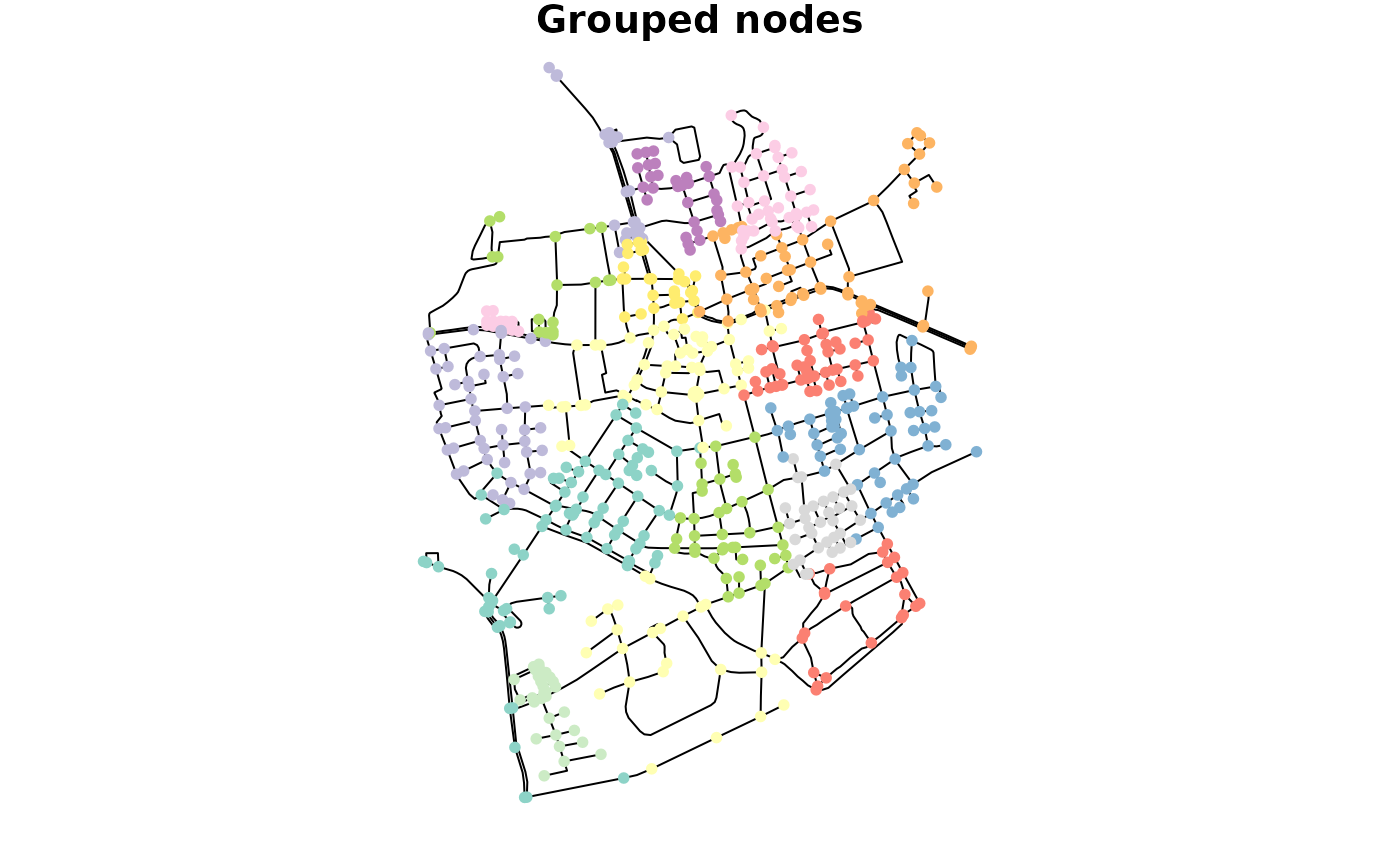
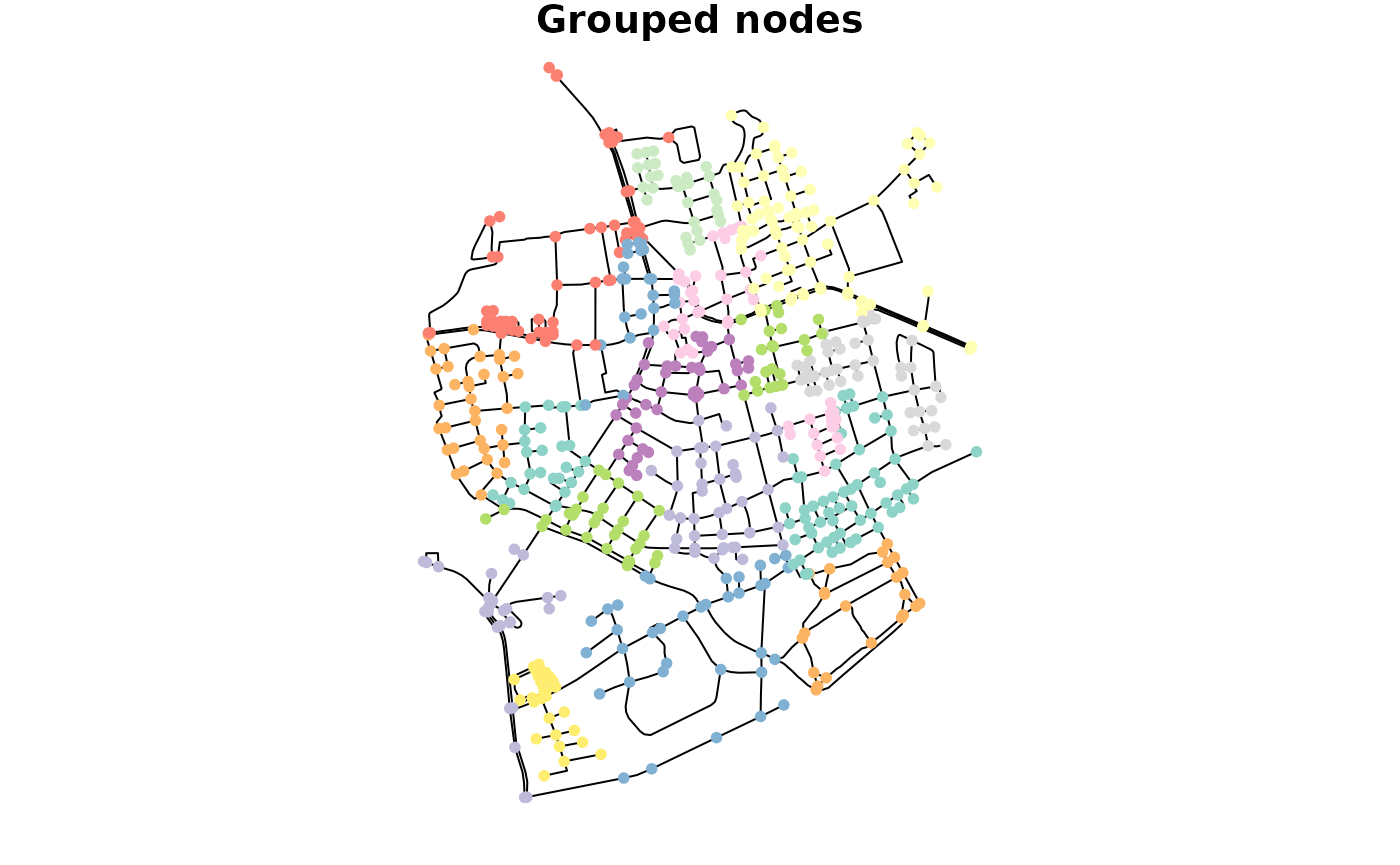
Built site for sfnetworks: 0.5.5.900@c687307

diff --git a/articles/sfn02_preprocess_clean.html b/articles/sfn02_preprocess_clean.html
@@ -99,7 +99,7 @@
     <div class="page-header toc-ignore">
       <h1 data-toc-skip>2. Network pre-processing and cleaning</h1>
             
-            <h4 data-toc-skip class="date">2022-08-18</h4>
+            <h4 data-toc-skip class="date">2022-08-19</h4>
       
       <small class="dont-index">Source: <a href="https://github.com/luukvdmeer/sfnetworks/blob/HEAD/vignettes/sfn02_preprocess_clean.Rmd" class="external-link"><code>vignettes/sfn02_preprocess_clean.Rmd</code></a></small>
       <div class="hidden name"><code>sfn02_preprocess_clean.Rmd</code></div>
@@ -376,12 +376,12 @@ PRE.fansi SPAN {padding-top: .25em; padding-bottom: .25em};
 <span><span class="co">#&gt; # Bounding box:  xmin: 0 ymin: -1 xmax: 7 ymax: 3</span></span>
 <span><span class="co">#&gt;    from    to              x  flow type    foo bar  </span></span>
 <span><span class="co">#&gt;   &lt;int&gt; &lt;int&gt;   &lt;LINESTRING&gt; &lt;int&gt; &lt;chr&gt; &lt;int&gt; &lt;chr&gt;</span></span>
-<span><span class="co">#&gt; 1    10     9 (6 1.2, 5.8 1)     3 path      7 z    </span></span>
-<span><span class="co">#&gt; 2    11    10 (6.2 1, 6 1.2)     4 path      1 o    </span></span>
-<span><span class="co">#&gt; 3     9    12 (5.8 1, 6 0.8)     4 path      9 g    </span></span>
-<span><span class="co">#&gt; 4    12    11 (6 0.8, 6.2 1)     4 path      2 u    </span></span>
-<span><span class="co">#&gt; 5    11    15   (6.2 1, 7 1)     4 path     13 t    </span></span>
-<span><span class="co">#&gt; 6    10    13   (6 1.2, 6 2)    10 path     14 x    </span></span>
+<span><span class="co">#&gt; 1    10     9 (6 1.2, 5.8 1)     7 path      9 l    </span></span>
+<span><span class="co">#&gt; 2    11    10 (6.2 1, 6 1.2)     1 path      5 r    </span></span>
+<span><span class="co">#&gt; 3     9    12 (5.8 1, 6 0.8)     8 path     15 m    </span></span>
+<span><span class="co">#&gt; 4    12    11 (6 0.8, 6.2 1)     3 path     11 h    </span></span>
+<span><span class="co">#&gt; 5    11    15   (6.2 1, 7 1)    10 path      3 b    </span></span>
+<span><span class="co">#&gt; 6    10    13   (6 1.2, 6 2)     8 path      7 u    </span></span>
 <span><span class="co">#&gt; # … with 9 more rows</span></span>
 <span><span class="co">#&gt; #</span></span>
 <span><span class="co">#&gt; # Node Data:     15 × 1</span></span>
@@ -409,8 +409,8 @@ PRE.fansi SPAN {padding-top: .25em; padding-bottom: .25em};
 <span><span class="co">#&gt; # A tibble: 2 × 7</span></span>
 <span><span class="co">#&gt;    from    to               x  flow type    foo bar  </span></span>
 <span><span class="co">#&gt;   &lt;int&gt; &lt;int&gt;    &lt;LINESTRING&gt; &lt;int&gt; &lt;chr&gt; &lt;int&gt; &lt;chr&gt;</span></span>
-<span><span class="co">#&gt; 1     6     7      (4 3, 4 2)    10 path     10 s    </span></span>
-<span><span class="co">#&gt; 2     6     7 (4 3, 5 2, 4 2)     8 road      8 n</span></span></code></pre>
+<span><span class="co">#&gt; 1     6     7      (4 3, 4 2)     2 path     10 w    </span></span>
+<span><span class="co">#&gt; 2     6     7 (4 3, 5 2, 4 2)     3 road      6 a</span></span></code></pre>
 <div class="sourceCode" id="cb10"><pre class="downlit sourceCode r">
 <code class="sourceCode R"><span><span class="co"># Define how we want to combine the attributes.</span></span>
 <span><span class="co"># For the flows:</span></span>
@@ -441,7 +441,7 @@ PRE.fansi SPAN {padding-top: .25em; padding-bottom: .25em};
 <span><span class="co">#&gt; # A tibble: 1 × 6</span></span>
 <span><span class="co">#&gt;    from    to            x  flow type    .tidygraph_edge_index</span></span>
 <span><span class="co">#&gt;   &lt;int&gt; &lt;int&gt; &lt;LINESTRING&gt; &lt;dbl&gt; &lt;chr&gt;   &lt;list&gt;               </span></span>
-<span><span class="co">#&gt; 1     6     7   (4 3, 4 2)    18 unknown &lt;int [2]&gt;</span></span></code></pre>
+<span><span class="co">#&gt; 1     6     7   (4 3, 4 2)     5 unknown &lt;int [2]&gt;</span></span></code></pre>
 <div class="sourceCode" id="cb11"><pre class="downlit sourceCode r">
 <code class="sourceCode R"><span><span class="fu"><a href="https://rdrr.io/r/graphics/plot.default.html" class="external-link">plot</a></span><span class="op">(</span><span class="fu"><a href="https://r-spatial.github.io/sf/reference/st_geometry.html" class="external-link">st_geometry</a></span><span class="op">(</span><span class="va">net</span>, <span class="st">"edges"</span><span class="op">)</span>, col <span class="op">=</span> <span class="fu">edge_colors</span><span class="op">(</span><span class="va">net</span><span class="op">)</span>, lwd <span class="op">=</span> <span class="fl">4</span><span class="op">)</span></span>
 <span><span class="fu"><a href="https://rdrr.io/r/graphics/plot.default.html" class="external-link">plot</a></span><span class="op">(</span><span class="fu"><a href="https://r-spatial.github.io/sf/reference/st_geometry.html" class="external-link">st_geometry</a></span><span class="op">(</span><span class="va">net</span>, <span class="st">"nodes"</span><span class="op">)</span>, pch <span class="op">=</span> <span class="fl">20</span>, cex <span class="op">=</span> <span class="fl">1.5</span>, add <span class="op">=</span> <span class="cn">TRUE</span><span class="op">)</span></span>
@@ -518,10 +518,10 @@ PRE.fansi SPAN {padding-top: .25em; padding-bottom: .25em};
 <span><span class="co">#&gt; # A tibble: 4 × 6</span></span>
 <span><span class="co">#&gt;    from    to               x  flow type    .tidygraph_edge_index</span></span>
 <span><span class="co">#&gt;   &lt;int&gt; &lt;int&gt;    &lt;LINESTRING&gt; &lt;dbl&gt; &lt;chr&gt;                   &lt;int&gt;</span></span>
-<span><span class="co">#&gt; 1     1     2 (0 1, 1 1, 2 1)     3 road                        1</span></span>
-<span><span class="co">#&gt; 2     2     3      (2 1, 3 1)     1 road                        2</span></span>
-<span><span class="co">#&gt; 3     8     9      (4 3, 4 2)    18 unknown                     5</span></span>
-<span><span class="co">#&gt; 4     9     4      (4 2, 4 1)    10 road                        6</span></span></code></pre>
+<span><span class="co">#&gt; 1     1     2 (0 1, 1 1, 2 1)     7 road                        1</span></span>
+<span><span class="co">#&gt; 2     2     3      (2 1, 3 1)     8 road                        2</span></span>
+<span><span class="co">#&gt; 3     8     9      (4 3, 4 2)     5 unknown                     5</span></span>
+<span><span class="co">#&gt; 4     9     4      (4 2, 4 1)     8 road                        6</span></span></code></pre>
 <div class="sourceCode" id="cb15"><pre class="downlit sourceCode r">
 <code class="sourceCode R"><span></span>
 <span><span class="co"># Define how we want to combine the attributes.</span></span>
@@ -551,8 +551,8 @@ PRE.fansi SPAN {padding-top: .25em; padding-bottom: .25em};
 <span><span class="co">#&gt; # A tibble: 2 × 6</span></span>
 <span><span class="co">#&gt;    from    to  flow type    .tidygraph_edge_index                    x</span></span>
 <span><span class="co">#&gt;   &lt;int&gt; &lt;int&gt; &lt;dbl&gt; &lt;chr&gt;   &lt;list&gt;                        &lt;LINESTRING&gt;</span></span>
-<span><span class="co">#&gt; 1     1     2     4 road    &lt;int [2]&gt;             (0 1, 1 1, 2 1, 3 1)</span></span>
-<span><span class="co">#&gt; 2     7     3    28 unknown &lt;int [2]&gt;                  (4 3, 4 2, 4 1)</span></span></code></pre>
+<span><span class="co">#&gt; 1     1     2    15 road    &lt;int [2]&gt;             (0 1, 1 1, 2 1, 3 1)</span></span>
+<span><span class="co">#&gt; 2     7     3    13 unknown &lt;int [2]&gt;                  (4 3, 4 2, 4 1)</span></span></code></pre>
 <p>Secondly, it is possible to only remove those pseudo nodes for which attributes among their incident edges are equal. To do this, set <code>require_equal = TRUE</code>. Optionally, you can provide a list of attribute names instead, such that only those attributes are checked for equality, instead of all attributes. Again, remember that the geometry-list column, the tidygraph index column, as well as the <em>from</em> and <em>to</em> columns are not considered attributes in this case.</p>
 <p>In our example, our first pseudo node has incident edges of the same type (“road”), while the second pseudo node has incident edges of differing types (“road” and “unknown”). If we require the type attribute to be equal, the second pseudo node will not be removed.</p>
 <div class="sourceCode" id="cb16"><pre class="downlit sourceCode r">
@@ -570,7 +570,11 @@ PRE.fansi SPAN {padding-top: .25em; padding-bottom: .25em};
 <span><span class="fu"><a href="https://rdrr.io/r/graphics/plot.default.html" class="external-link">plot</a></span><span class="op">(</span><span class="fu"><a href="https://r-spatial.github.io/sf/reference/st_geometry.html" class="external-link">st_geometry</a></span><span class="op">(</span><span class="va">subdivision</span>, <span class="st">"nodes"</span><span class="op">)</span>, pch <span class="op">=</span> <span class="fl">20</span>, cex <span class="op">=</span> <span class="fl">1.5</span>, add <span class="op">=</span> <span class="cn">TRUE</span><span class="op">)</span></span>
 <span><span class="fu"><a href="https://rdrr.io/r/graphics/plot.default.html" class="external-link">plot</a></span><span class="op">(</span><span class="fu"><a href="https://r-spatial.github.io/sf/reference/st_geometry.html" class="external-link">st_geometry</a></span><span class="op">(</span><span class="va">other_smoothed</span>, <span class="st">"edges"</span><span class="op">)</span>, col <span class="op">=</span> <span class="fu">edge_colors</span><span class="op">(</span><span class="va">smoothed</span><span class="op">)</span>, lwd <span class="op">=</span> <span class="fl">4</span><span class="op">)</span></span>
 <span><span class="fu"><a href="https://rdrr.io/r/graphics/plot.default.html" class="external-link">plot</a></span><span class="op">(</span><span class="fu"><a href="https://r-spatial.github.io/sf/reference/st_geometry.html" class="external-link">st_geometry</a></span><span class="op">(</span><span class="va">other_smoothed</span>, <span class="st">"nodes"</span><span class="op">)</span>, pch <span class="op">=</span> <span class="fl">20</span>, cex <span class="op">=</span> <span class="fl">1.5</span>, add <span class="op">=</span> <span class="cn">TRUE</span><span class="op">)</span></span></code></pre></div>
-<p><img src="sfn02_preprocess_clean_files/figure-html/unnamed-chunk-13-1.png" width="50%"><img src="sfn02_preprocess_clean_files/figure-html/unnamed-chunk-13-2.png" width="50%"> ### Simplify intersections</p>
+<p><img src="sfn02_preprocess_clean_files/figure-html/unnamed-chunk-13-1.png" width="50%"><img src="sfn02_preprocess_clean_files/figure-html/unnamed-chunk-13-2.png" width="50%"></p>
+</div>
+<div class="section level3">
+<h3 id="simplify-intersections">Simplify intersections<a class="anchor" aria-label="anchor" href="#simplify-intersections"></a>
+</h3>
 <p>Especially in road networks you may find that intersections between edges are not modelled by a single node. Instead, each leg of the intersection has a dedicated edge. To simplify the topology of your network, you might want to reduce such complex intersection structures into a single node. Hence, we want to reduce a group of nodes into a single node, while maintaining the connectivity of the network.</p>
 <p>In graph theory terms this process is called <em>contraction</em>: the contraction of a set of nodes <span class="math inline">\(P = \{p_{1}, p_{2}, ..., p_{n}\}\)</span> is the replacement of <span class="math inline">\(S\)</span> and all its incident edges by a <em>single</em> node <span class="math inline">\(p^{*}\)</span> and a set of edges that connect <span class="math inline">\(p^{*}\)</span> to all nodes that were adjacent to any node <span class="math inline">\(p_{i} \in P\)</span>.</p>
 <p>The function <code><a href="../reference/spatial_morphers.html">to_spatial_contracted()</a></code> contracts groups of nodes based on a given grouping variable. The geometry of each contracted node is the <em>centroid</em> of the original group members’ geometries. Moreover, the geometries of the edges that start or end at a contracted node are updated such that their boundaries match the new node geometries.</p>
@@ -624,9 +628,9 @@ PRE.fansi SPAN {padding-top: .25em; padding-bottom: .25em};
 <span><span class="co">#&gt; # Bounding box:  xmin: 0 ymin: -1 xmax: 7 ymax: 3</span></span>
 <span><span class="co">#&gt;    from    to  flow type  .tidygraph_edge_index            x</span></span>
 <span><span class="co">#&gt;   &lt;int&gt; &lt;int&gt; &lt;dbl&gt; &lt;chr&gt; &lt;list&gt;                &lt;LINESTRING&gt;</span></span>
-<span><span class="co">#&gt; 1     2     3     1 road  &lt;int [1]&gt;               (3 1, 4 1)</span></span>
-<span><span class="co">#&gt; 2     3     4     6 path  &lt;int [1]&gt;             (4 1, 5.8 1)</span></span>
-<span><span class="co">#&gt; 3     5     2     8 road  &lt;int [1]&gt;               (3 2, 3 1)</span></span>
+<span><span class="co">#&gt; 1     2     3     8 road  &lt;int [1]&gt;               (3 1, 4 1)</span></span>
+<span><span class="co">#&gt; 2     3     4     4 path  &lt;int [1]&gt;             (4 1, 5.8 1)</span></span>
+<span><span class="co">#&gt; 3     5     2     9 road  &lt;int [1]&gt;               (3 2, 3 1)</span></span>
 <span><span class="co">#&gt; # … with 11 more rows</span></span></code></pre>
 <p>The combination of the cluster index and the component index can now be used to define the groups of nodes to be contracted. Nodes that form a group on their own will remain unchanged.</p>
 <p>A point of attention is that contraction introduces new <em>multiple edges</em> and/or <em>loop edges</em>. Multiple edges are introduced by contraction when there are several connections between the same groups of nodes. Loop edges are introduced by contraction when there are connections within a group. Setting <code>simplify = TRUE</code> will remove the multiple and loop edges after contraction. However, note that this also removes multiple and loop edges that already existed before contraction.</p>
@@ -670,7 +674,7 @@ PRE.fansi SPAN {padding-top: .25em; padding-bottom: .25em};
 <span><span class="co">#&gt;         x .tidygraph_node_index   cls   cmp is_priority</span></span>
 <span><span class="co">#&gt;   &lt;POINT&gt;                 &lt;int&gt; &lt;int&gt; &lt;int&gt; &lt;lgl&gt;      </span></span>
 <span><span class="co">#&gt; 1 (5.8 1)                     5     4     1 TRUE       </span></span>
-<span><span class="co">#&gt; 2 (6 0.8)                    11     4     1 TRUE       </span></span>
+<span><span class="co">#&gt; 2 (6 0.8)                    11     4     1 FALSE      </span></span>
 <span><span class="co">#&gt; 3 (6 1.2)                    12     4     1 TRUE       </span></span>
 <span><span class="co">#&gt; 4 (6.2 1)                    14     4     1 TRUE</span></span></code></pre>
 <div class="sourceCode" id="cb22"><pre class="downlit sourceCode r">

diff --git a/articles/sfn05_morphers.html b/articles/sfn05_morphers.html
@@ -99,7 +99,7 @@
     <div class="page-header toc-ignore">
       <h1 data-toc-skip>5. Spatial morphers</h1>
             
-            <h4 data-toc-skip class="date">2022-08-18</h4>
+            <h4 data-toc-skip class="date">2022-08-19</h4>
       
       <small class="dont-index">Source: <a href="https://github.com/luukvdmeer/sfnetworks/blob/HEAD/vignettes/sfn05_morphers.Rmd" class="external-link"><code>vignettes/sfn05_morphers.Rmd</code></a></small>
       <div class="hidden name"><code>sfn05_morphers.Rmd</code></div>
@@ -161,9 +161,9 @@ PRE.fansi SPAN {padding-top: .25em; padding-bottom: .25em};
 <span><span class="co">#&gt; # Bounding box:  xmin: 4150707 ymin: 3206375 xmax: 4152367 ymax: 3208565</span></span>
 <span><span class="co">#&gt;    from    to name                  type                          geometry group</span></span>
 <span><span class="co">#&gt;   &lt;int&gt; &lt;int&gt; &lt;chr&gt;                 &lt;fct&gt;                 &lt;LINESTRING [m]&gt; &lt;int&gt;</span></span>
-<span><span class="co">#&gt; 1     1     2 Havixbecker Strasse   residential (4151491 3207923, 4151474…    15</span></span>
-<span><span class="co">#&gt; 2     3     4 Pienersallee          secondary   (4151398 3207777, 4151390…     1</span></span>
-<span><span class="co">#&gt; 3     5     6 Schulte-Bernd-Strasse residential (4151408 3207539, 4151417…     1</span></span>
+<span><span class="co">#&gt; 1     1     2 Havixbecker Strasse   residential (4151491 3207923, 4151474…     5</span></span>
+<span><span class="co">#&gt; 2     3     4 Pienersallee          secondary   (4151398 3207777, 4151390…     8</span></span>
+<span><span class="co">#&gt; 3     5     6 Schulte-Bernd-Strasse residential (4151408 3207539, 4151417…     8</span></span>
 <span><span class="co">#&gt; # … with 848 more rows</span></span></code></pre>
 <div class="sourceCode" id="cb3"><pre class="downlit sourceCode r">
 <code class="sourceCode R"><span><span class="co"># The algorithm detected 34 communities.</span></span>
@@ -172,7 +172,7 @@ PRE.fansi SPAN {padding-top: .25em; padding-bottom: .25em};
 <span>  <span class="fu"><a href="https://dplyr.tidyverse.org/reference/pull.html" class="external-link">pull</a></span><span class="op">(</span><span class="va">group</span><span class="op">)</span> <span class="op"><a href="https://magrittr.tidyverse.org/reference/pipe.html" class="external-link">%&gt;%</a></span></span>
 <span>  <span class="fu"><a href="https://rdrr.io/r/base/unique.html" class="external-link">unique</a></span><span class="op">(</span><span class="op">)</span> <span class="op"><a href="https://magrittr.tidyverse.org/reference/pipe.html" class="external-link">%&gt;%</a></span></span>
 <span>  <span class="fu"><a href="https://rdrr.io/r/base/length.html" class="external-link">length</a></span><span class="op">(</span><span class="op">)</span></span>
-<span><span class="co">#&gt; [1] 33</span></span></code></pre></div>
+<span><span class="co">#&gt; [1] 34</span></span></code></pre></div>
 <p>In all grouping functions in <code>tidygraph</code>, the group index <code>1</code> belongs the largest group, the index <code>2</code> to the second largest group, et cetera. Lets plot only the first third of the 34 groups, to keep the plot clear.</p>
 <div class="sourceCode" id="cb4"><pre class="downlit sourceCode r">
 <code class="sourceCode R"><span><span class="fu"><a href="https://rdrr.io/r/graphics/plot.default.html" class="external-link">plot</a></span><span class="op">(</span><span class="fu"><a href="https://r-spatial.github.io/sf/reference/st_geometry.html" class="external-link">st_geometry</a></span><span class="op">(</span><span class="va">net</span>, <span class="st">"edges"</span><span class="op">)</span>, col <span class="op">=</span> <span class="st">"grey"</span>, lwd <span class="op">=</span> <span class="fl">0.5</span><span class="op">)</span></span>
@@ -483,8 +483,8 @@ PRE.fansi SPAN {padding-top: .25em; padding-bottom: .25em};
 <span><span class="co">#&gt; # A tibble: 2 × 6</span></span>
 <span><span class="co">#&gt;    from    to name         type                                   geometry  flow</span></span>
 <span><span class="co">#&gt;   &lt;int&gt; &lt;int&gt; &lt;chr&gt;        &lt;fct&gt;                          &lt;LINESTRING [m]&gt; &lt;int&gt;</span></span>
-<span><span class="co">#&gt; 1   118   119 NA           service (4150716 3207080, 4150715 3207108, 415…    95</span></span>
-<span><span class="co">#&gt; 2   118   119 Pienersallee service      (4150716 3207080, 4150752 3207067)    29</span></span></code></pre>
+<span><span class="co">#&gt; 1   118   119 NA           service (4150716 3207080, 4150715 3207108, 415…    20</span></span>
+<span><span class="co">#&gt; 2   118   119 Pienersallee service      (4150716 3207080, 4150752 3207067)    30</span></span></code></pre>
 <div class="sourceCode" id="cb16"><pre class="downlit sourceCode r">
 <code class="sourceCode R"><span><span class="co"># Simplify the network.</span></span>
 <span><span class="co"># We summarise the flow attribute by taking the sum of the merged edge flows.</span></span>
@@ -508,7 +508,7 @@ PRE.fansi SPAN {padding-top: .25em; padding-bottom: .25em};
 <span><span class="co">#&gt; # A tibble: 1 × 7</span></span>
 <span><span class="co">#&gt;    from    to name  type                                  geometry  flow .tidy…¹</span></span>
 <span><span class="co">#&gt;   &lt;int&gt; &lt;int&gt; &lt;chr&gt; &lt;fct&gt;                         &lt;LINESTRING [m]&gt; &lt;dbl&gt; &lt;list&gt; </span></span>
-<span><span class="co">#&gt; 1   118   119 NA    service (4150716 3207080, 4150715 3207108, 41…   124 &lt;int&gt;  </span></span>
+<span><span class="co">#&gt; 1   118   119 NA    service (4150716 3207080, 4150715 3207108, 41…    50 &lt;int&gt;  </span></span>
 <span><span class="co">#&gt; # … with abbreviated variable name ¹.tidygraph_edge_index</span></span></code></pre>
 </div>
 <div class="section level3">
@@ -619,7 +619,7 @@ PRE.fansi SPAN {padding-top: .25em; padding-bottom: .25em};
 <span><span class="co">#&gt; 2 (4151474 3207946) FALSE           NA</span></span>
 <span><span class="co">#&gt; 3 (4151398 3207777) FALSE           NA</span></span>
 <span><span class="co">#&gt; 4 (4151370 3207673) FALSE           NA</span></span>
-<span><span class="co">#&gt; 5 (4151408 3207539) TRUE          1020</span></span>
+<span><span class="co">#&gt; 5 (4151408 3207539) FALSE           NA</span></span>
 <span><span class="co">#&gt; 6 (4151421 3207592) FALSE           NA</span></span>
 <span><span class="co">#&gt; # … with 695 more rows</span></span>
 <span><span class="co">#&gt; #</span></span>

diff --git a/reference/sf.html b/reference/sf.html
@@ -225,8 +225,10 @@ at the documentation of the corresponding <code>sf</code> function for details.<
 <p>The <code>sfnetwork</code> method for <code><a href="https://r-spatial.github.io/sf/reference/st_as_sf.html" class="external-link">st_as_sf</a></code> returns
 the active element of the network as object of class <code><a href="https://r-spatial.github.io/sf/reference/sf.html" class="external-link">sf</a></code>.
 The <code>sfnetwork</code> and <code>morphed_sfnetwork</code> methods for
-<code><a href="https://r-spatial.github.io/sf/reference/st_join.html" class="external-link">st_join</a></code>, <code><a href="https://r-spatial.github.io/sf/reference/st_join.html" class="external-link">st_filter</a></code> and
-<code><a href="https://r-spatial.github.io/sf/reference/st_crop.html" class="external-link">st_crop</a></code> return an object of class <code><a href="sfnetwork.html">sfnetwork</a></code></p>
+<code><a href="https://r-spatial.github.io/sf/reference/st_join.html" class="external-link">st_join</a></code>, <code><a href="https://r-spatial.github.io/sf/reference/st_join.html" class="external-link">st_filter</a></code>,
+<code><a href="https://r-spatial.github.io/sf/reference/geos_binary_ops.html" class="external-link">st_intersection</a></code>, <code><a href="https://r-spatial.github.io/sf/reference/geos_binary_ops.html" class="external-link">st_difference</a></code>,
+<code><a href="https://r-spatial.github.io/sf/reference/st_crop.html" class="external-link">st_crop</a></code> and the setter functions
+ return an object of class <code><a href="sfnetwork.html">sfnetwork</a></code></p>
 
 
 <p>and <code>morphed_sfnetwork</code> respectively. All other
@@ -265,7 +267,6 @@ See the <code><a href="https://r-spatial.github.io/sf/reference/sf.html" class="
 <span class="r-out co"><span class="r-pr">#&gt;</span> <span style="color: #BCBCBC;"> 9</span>  (7.537673 51.9475)</span>
 <span class="r-out co"><span class="r-pr">#&gt;</span> <span style="color: #BCBCBC;">10</span> (7.537614 51.94562)</span>
 <span class="r-out co"><span class="r-pr">#&gt;</span> <span style="color: #949494;"># … with 691 more rows</span></span>
-<span class="r-out co"><span class="r-pr">#&gt;</span> <span style="color: #949494;"># ℹ Use `print(n = ...)` to see more rows</span></span>
 <span class="r-in"><span></span></span>
 <span class="r-in"><span><span class="co"># Extract any network element.</span></span></span>
 <span class="r-in"><span><span class="fu"><a href="https://r-spatial.github.io/sf/reference/st_as_sf.html" class="external-link">st_as_sf</a></span><span class="op">(</span><span class="va">net</span>, <span class="st">"edges"</span><span class="op">)</span></span></span>
@@ -288,7 +289,6 @@ See the <code><a href="https://r-spatial.github.io/sf/reference/sf.html" class="
 <span class="r-out co"><span class="r-pr">#&gt;</span> <span style="color: #BCBCBC;"> 9</span>     7    15 <span style="color: #BB0000;">NA</span>                    track       (7.540063 51.94468, 7.540338 5…</span>
 <span class="r-out co"><span class="r-pr">#&gt;</span> <span style="color: #BCBCBC;">10</span>    16    17 <span style="color: #BB0000;">NA</span>                    track       (7.5424 51.94599, 7.54205 51.9…</span>
 <span class="r-out co"><span class="r-pr">#&gt;</span> <span style="color: #949494;"># … with 841 more rows</span></span>
-<span class="r-out co"><span class="r-pr">#&gt;</span> <span style="color: #949494;"># ℹ Use `print(n = ...)` to see more rows</span></span>
 <span class="r-in"><span></span></span>
 <span class="r-in"><span><span class="co"># Get geometry of the active network element.</span></span></span>
 <span class="r-in"><span><span class="fu"><a href="https://r-spatial.github.io/sf/reference/st_geometry.html" class="external-link">st_geometry</a></span><span class="op">(</span><span class="va">net</span><span class="op">)</span></span></span>

diff --git a/articles/sfn01_structure.html b/articles/sfn01_structure.html
@@ -99,7 +99,7 @@
     <div class="page-header toc-ignore">
       <h1 data-toc-skip>1. The sfnetwork data structure</h1>
             
-            <h4 data-toc-skip class="date">2022-08-18</h4>
+            <h4 data-toc-skip class="date">2022-08-19</h4>
       
       <small class="dont-index">Source: <a href="https://github.com/luukvdmeer/sfnetworks/blob/HEAD/vignettes/sfn01_structure.Rmd" class="external-link"><code>vignettes/sfn01_structure.Rmd</code></a></small>
       <div class="hidden name"><code>sfn01_structure.Rmd</code></div>
@@ -305,8 +305,7 @@ PRE.fansi SPAN {padding-top: .25em; padding-bottom: .25em};
 <span><span class="co">#&gt;  8 NA                    path        (7.53822 51.94546, 7.538131 51.94549, 7.53…</span></span>
 <span><span class="co">#&gt;  9 NA                    track       (7.540063 51.94468, 7.540338 51.94468, 7.5…</span></span>
 <span><span class="co">#&gt; 10 NA                    track       (7.5424 51.94599, 7.54205 51.94629, 7.5419…</span></span>
-<span><span class="co">#&gt; # … with 841 more rows</span></span>
-<span><span class="co">#&gt; # ℹ Use `print(n = ...)` to see more rows</span></span></code></pre>
+<span><span class="co">#&gt; # … with 841 more rows</span></span></code></pre>
 <div class="sourceCode" id="cb9"><pre class="downlit sourceCode r">
 <code class="sourceCode R"><span><span class="va">net</span> <span class="op">=</span> <span class="fu"><a href="../reference/as_sfnetwork.html">as_sfnetwork</a></span><span class="op">(</span><span class="va">roxel</span><span class="op">)</span></span>
 <span><span class="fu"><a href="https://rdrr.io/r/graphics/plot.default.html" class="external-link">plot</a></span><span class="op">(</span><span class="va">net</span><span class="op">)</span></span></code></pre></div>
@@ -385,8 +384,7 @@ PRE.fansi SPAN {padding-top: .25em; padding-bottom: .25em};
 <span><span class="co">#&gt;  8  (7.53822 51.94546)</span></span>
 <span><span class="co">#&gt;  9  (7.537673 51.9475)</span></span>
 <span><span class="co">#&gt; 10 (7.537614 51.94562)</span></span>
-<span><span class="co">#&gt; # … with 691 more rows</span></span>
-<span><span class="co">#&gt; # ℹ Use `print(n = ...)` to see more rows</span></span></code></pre>
+<span><span class="co">#&gt; # … with 691 more rows</span></span></code></pre>
 <p>Although we recommend for reasons of clarity to always explicitly activate an element before extraction, you can also use a shortcut by providing the name of the element you want to extract as extra argument to <code><a href="https://r-spatial.github.io/sf/reference/st_as_sf.html" class="external-link">sf::st_as_sf()</a></code>:</p>
 <div class="sourceCode" id="cb12"><pre class="downlit sourceCode r">
 <code class="sourceCode R"><span><span class="fu"><a href="https://r-spatial.github.io/sf/reference/st_as_sf.html" class="external-link">st_as_sf</a></span><span class="op">(</span><span class="va">net</span>, <span class="st">"edges"</span><span class="op">)</span></span></code></pre></div>
@@ -408,8 +406,7 @@ PRE.fansi SPAN {padding-top: .25em; padding-bottom: .25em};
 <span><span class="co">#&gt;  8     8    10 NA                    path        (7.53822 51.94546, 7.538131 51…</span></span>
 <span><span class="co">#&gt;  9     7    15 NA                    track       (7.540063 51.94468, 7.540338 5…</span></span>
 <span><span class="co">#&gt; 10    16    17 NA                    track       (7.5424 51.94599, 7.54205 51.9…</span></span>
-<span><span class="co">#&gt; # … with 841 more rows</span></span>
-<span><span class="co">#&gt; # ℹ Use `print(n = ...)` to see more rows</span></span></code></pre>
+<span><span class="co">#&gt; # … with 841 more rows</span></span></code></pre>
 </div>
 <div class="section level2">
 <h2 id="visualization">Visualization<a class="anchor" aria-label="anchor" href="#visualization"></a>

diff --git a/reference/as_tibble.html b/reference/as_tibble.html
@@ -152,7 +152,6 @@ column. Defaults to <code>TRUE</code>.</p></dd>
 <span class="r-out co"><span class="r-pr">#&gt;</span> <span style="color: #BCBCBC;"> 9</span>  (7.537673 51.9475)</span>
 <span class="r-out co"><span class="r-pr">#&gt;</span> <span style="color: #BCBCBC;">10</span> (7.537614 51.94562)</span>
 <span class="r-out co"><span class="r-pr">#&gt;</span> <span style="color: #949494;"># … with 691 more rows</span></span>
-<span class="r-out co"><span class="r-pr">#&gt;</span> <span style="color: #949494;"># ℹ Use `print(n = ...)` to see more rows</span></span>
 <span class="r-in"><span></span></span>
 <span class="r-in"><span><span class="co"># Extract any network element as a spatial tibble.</span></span></span>
 <span class="r-in"><span><span class="fu">as_tibble</span><span class="op">(</span><span class="va">net</span>, <span class="st">"edges"</span><span class="op">)</span></span></span>
@@ -175,7 +174,6 @@ column. Defaults to <code>TRUE</code>.</p></dd>
 <span class="r-out co"><span class="r-pr">#&gt;</span> <span style="color: #BCBCBC;"> 9</span>     7    15 <span style="color: #BB0000;">NA</span>                    track       (7.540063 51.94468, 7.540338 5…</span>
 <span class="r-out co"><span class="r-pr">#&gt;</span> <span style="color: #BCBCBC;">10</span>    16    17 <span style="color: #BB0000;">NA</span>                    track       (7.5424 51.94599, 7.54205 51.9…</span>
 <span class="r-out co"><span class="r-pr">#&gt;</span> <span style="color: #949494;"># … with 841 more rows</span></span>
-<span class="r-out co"><span class="r-pr">#&gt;</span> <span style="color: #949494;"># ℹ Use `print(n = ...)` to see more rows</span></span>
 <span class="r-in"><span></span></span>
 <span class="r-in"><span><span class="co"># Extract the active network element as a regular tibble.</span></span></span>
 <span class="r-in"><span><span class="fu">as_tibble</span><span class="op">(</span><span class="va">net</span>, spatial <span class="op">=</span> <span class="cn">FALSE</span><span class="op">)</span></span></span>
@@ -193,7 +191,6 @@ column. Defaults to <code>TRUE</code>.</p></dd>
 <span class="r-out co"><span class="r-pr">#&gt;</span> <span style="color: #BCBCBC;"> 9</span>  (7.537673 51.9475)</span>
 <span class="r-out co"><span class="r-pr">#&gt;</span> <span style="color: #BCBCBC;">10</span> (7.537614 51.94562)</span>
 <span class="r-out co"><span class="r-pr">#&gt;</span> <span style="color: #949494;"># … with 691 more rows</span></span>
-<span class="r-out co"><span class="r-pr">#&gt;</span> <span style="color: #949494;"># ℹ Use `print(n = ...)` to see more rows</span></span>
 <span class="r-in"><span></span></span>
 </code></pre></div>
     </div>

diff --git a/news/index.html b/news/index.html
@@ -261,7 +261,7 @@
 <li>Various edge measure algorithms, including edge circuity. Refs <a href="https://github.com/luukvdmeer/sfnetworks/issues/51" class="external-link">#51</a>
 </li>
 </ul></li>
-<li>More methods for <code><a href="../reference/as_sfnetwork.html">as_sfnetwork()</a></code>. Refs <a href="https://github.com/luukvdmeer/sfnetworks/issues/41" class="external-link">#41</a><ul><li>Support <a href="https://docs.ropensci.org/stplanr/reference/SpatialLinesNetwork.html" class="external-link">sfNetwork</a> from <a href="https://docs.ropensci.org/stplanr/" class="external-link">stplanr</a>
+<li>More methods for <code><a href="../reference/as_sfnetwork.html">as_sfnetwork()</a></code>. Refs <a href="https://github.com/luukvdmeer/sfnetworks/issues/41" class="external-link">#41</a><ul><li>Support <code>sfNetwork</code> from <a href="https://docs.ropensci.org/stplanr/" class="external-link">stplanr</a>
 </li>
 <li>Support <a href="https://rdrr.io/cran/spatstat.linnet/man/linnet.html" class="external-link">linnet</a> and <a href="https://rdrr.io/cran/spatstat.geom/man/psp.object.html" class="external-link">psp</a> from <a href="https://rdrr.io/cran/spatstat/" class="external-link">spatstat</a>
 </li>

diff --git a/index.html b/index.html
@@ -150,7 +150,7 @@
 <h2 id="acknowledgment">Acknowledgment<a class="anchor" aria-label="anchor" href="#acknowledgment"></a>
 </h2>
 <p>This project gratefully acknowledges financial <a href="https://www.r-consortium.org/projects" class="external-link">support</a> from the</p>
-<p><a href="https://www.r-consortium.org/projects/awarded-projects" class="external-link"> <img src="https://raw.githubusercontent.com/RConsortium/artwork/main/r_consortium/R_Consortium-logo-horizontal-color.png" width="300"></a></p>
+<p><a href="https://www.r-consortium.org/all-projects/awarded-projects" class="external-link"> <img src="https://raw.githubusercontent.com/RConsortium/artwork/main/r_consortium/R_Consortium-logo-horizontal-color.png" width="300"></a></p>
 </div>
 </div>
   </div>

diff --git a/reference/as.linnet.html b/reference/as.linnet.html
@@ -83,7 +83,8 @@ this method without the .sfnetwork suffix and after loading the
     </div>
 
     <div id="ref-usage">
-    <div class="sourceCode"><pre class="sourceCode r"><code><span><span class="fu">as.linnet.sfnetwork</span><span class="op">(</span><span class="va">X</span>, <span class="va">...</span><span class="op">)</span></span></code></pre></div>
+    <div class="sourceCode"><pre class="sourceCode r"><code><span><span class="co"># S3 method for sfnetwork</span></span>
+<span><span class="fu">as.linnet</span><span class="op">(</span><span class="va">X</span>, <span class="va">...</span><span class="op">)</span></span></code></pre></div>
     </div>
 
     <div id="arguments">

diff --git a/articles/sfn03_join_filter.html b/articles/sfn03_join_filter.html
@@ -99,7 +99,7 @@
     <div class="page-header toc-ignore">
       <h1 data-toc-skip>3. Spatial joins and filters</h1>
             
-            <h4 data-toc-skip class="date">2022-08-18</h4>
+            <h4 data-toc-skip class="date">2022-08-19</h4>
       
       <small class="dont-index">Source: <a href="https://github.com/luukvdmeer/sfnetworks/blob/HEAD/vignettes/sfn03_join_filter.Rmd" class="external-link"><code>vignettes/sfn03_join_filter.Rmd</code></a></small>
       <div class="hidden name"><code>sfn03_join_filter.Rmd</code></div>

diff --git a/articles/sfn04_routing.html b/articles/sfn04_routing.html
@@ -99,7 +99,7 @@
     <div class="page-header toc-ignore">
       <h1 data-toc-skip>4. Routing</h1>
             
-            <h4 data-toc-skip class="date">2022-08-18</h4>
+            <h4 data-toc-skip class="date">2022-08-19</h4>
       
       <small class="dont-index">Source: <a href="https://github.com/luukvdmeer/sfnetworks/blob/HEAD/vignettes/sfn04_routing.Rmd" class="external-link"><code>vignettes/sfn04_routing.Rmd</code></a></small>
       <div class="hidden name"><code>sfn04_routing.Rmd</code></div>

diff --git a/reference/index.html b/reference/index.html
@@ -149,7 +149,7 @@
           <p class="section-desc"></p><p>The packages implements basic functions to coerce sfnetwork objects into other formats.</p>
         </th>
       </tr></tbody><tbody><tr><td>
-          <p><code><a href="as.linnet.html">as.linnet.sfnetwork()</a></code> </p>
+          <p><code><a href="as.linnet.html">as.linnet(<i>&lt;sfnetwork&gt;</i>)</a></code> </p>
         </td>
         <td><p>Convert a sfnetwork into a linnet</p></td>
       </tr><tr><td>
